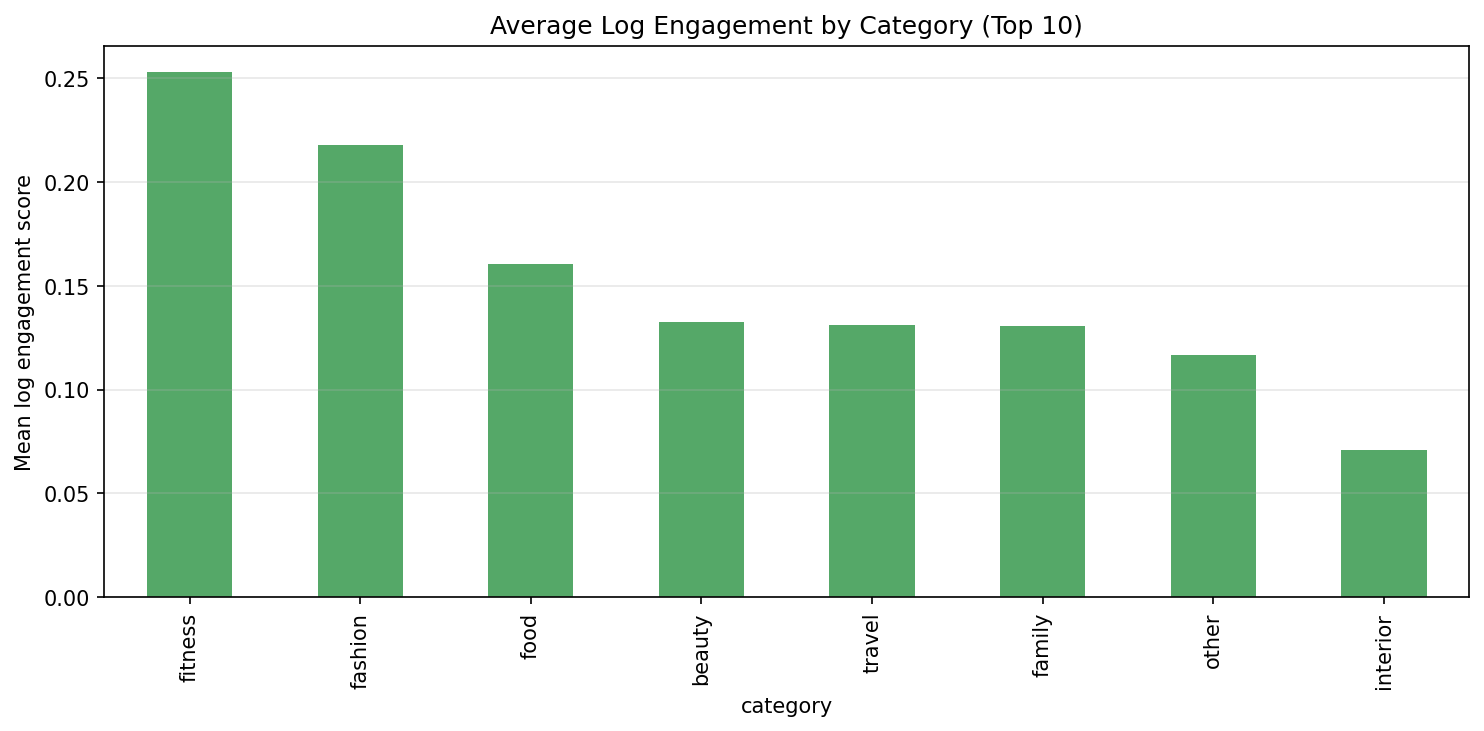
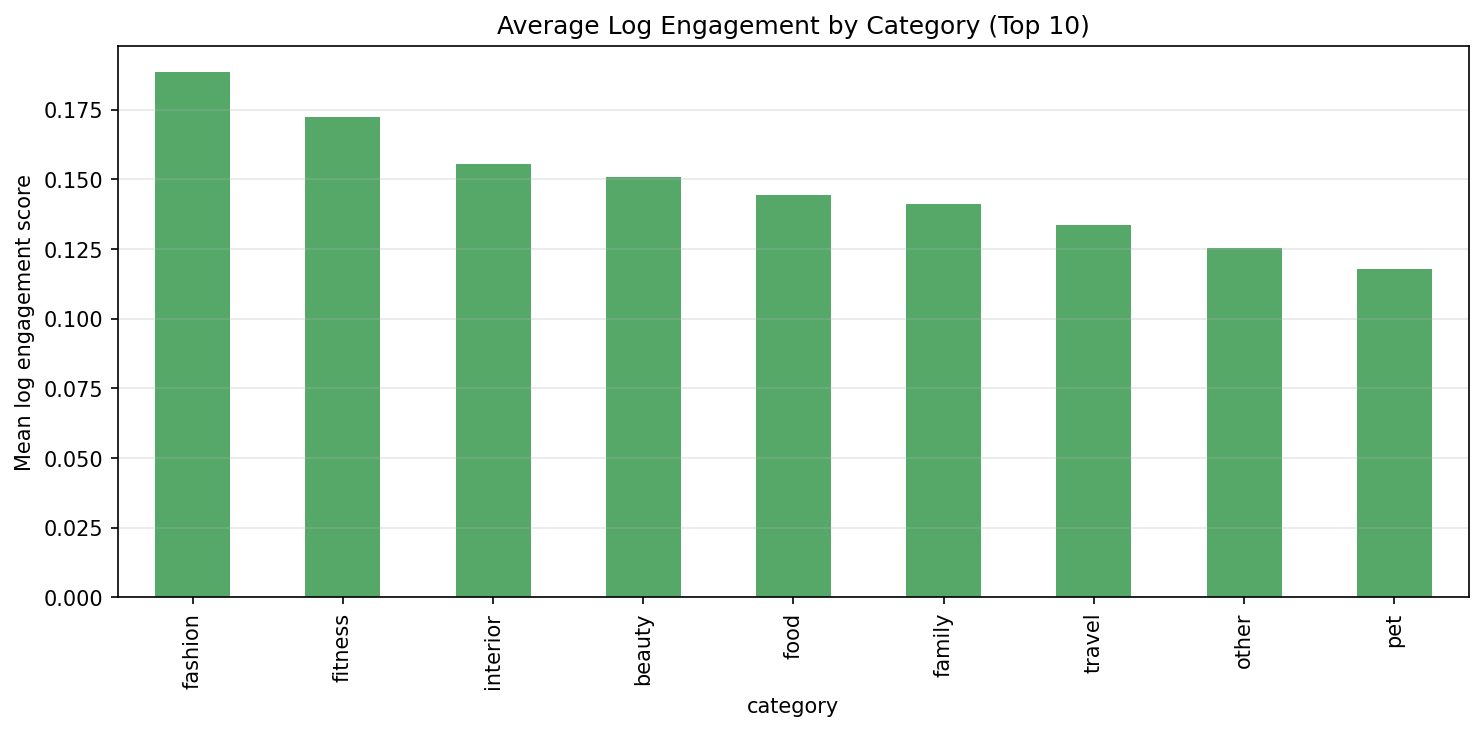
going from 10,000 influernecers to 20,000

diff --git a/src/demo_data.py b/src/demo_data.py
@@ -38,11 +38,83 @@ def _pick_bucket(options: tuple[str, ...], rng: random.Random) -> str:
     return rng.choice(usable)
 
 
+def _make_synthetic_post_row(
+    influencer: pd.Series,
+    influencer_idx: int,
+    post_idx: int,
+    rng: random.Random,
+    np_rng: np.random.Generator,
+    base_timestamp: int,
+    preferred_time: str,
+    preferred_media: str,
+) -> dict:
+    time_bucket = preferred_time if rng.random() < 0.55 else _pick_bucket(TIME_BUCKETS, rng)
+    caption_bucket = _pick_bucket(CAPTION_BUCKETS, rng)
+    hashtag_bucket = _pick_bucket(HASHTAG_BUCKETS, rng)
+    media_bucket = preferred_media if rng.random() < 0.6 else _pick_bucket(MEDIA_BUCKETS, rng)
+    ad_bucket = "ad" if rng.random() < 0.12 else "not_ad"
+
+    strategy = (
+        f"{time_bucket} + {caption_bucket} + {hashtag_bucket} + "
+        f"{ad_bucket} + {media_bucket}"
+    )
+
+    caption = f"{rng.choice(CAPTION_TEMPLATES)} #{hashtag_bucket.replace('_', '')}"
+    if caption_bucket == "long_caption":
+        caption += " " + " ".join(rng.choice(CAPTION_TEMPLATES) for _ in range(3))
+    elif caption_bucket == "medium_caption":
+        caption += " " + rng.choice(CAPTION_TEMPLATES)
+
+    num_hashtags = {"no_hashtags": 0, "few_hashtags": rng.randint(1, 3), "many_hashtags": rng.randint(4, 8)}[
+        hashtag_bucket
+    ]
+
+    influencer_name = influencer["influencer_name"]
+    followers = float(influencer["followers"])
+    quality = 0.8 if ad_bucket == "not_ad" else 0.55
+    if media_bucket == "video":
+        quality += 0.05
+    noise = float(np_rng.uniform(0.6, 1.4))
+
+    raw_engagement = max(1.0, followers * 0.0004 * quality * noise)
+    likes = int(raw_engagement * rng.uniform(0.65, 0.9))
+    comments = max(0, int(raw_engagement * rng.uniform(0.05, 0.2)))
+
+    return {
+        "influencer_name": influencer_name,
+        "json_postmetadata_file_name": f"synthetic_{influencer_idx}_{post_idx}.info",
+        "extracted_file_name": f"{influencer_name}-synthetic_{post_idx}.info",
+        "post_id": f"synthetic_{influencer_idx}_{post_idx}",
+        "shortcode": f"syn{influencer_idx}{post_idx}",
+        "likes": likes,
+        "comments": comments,
+        "preview_comments": comments,
+        "caption": caption,
+        "caption_length": len(caption),
+        "hashtags": [f"tag{i}" for i in range(num_hashtags)],
+        "hashtags_text": " ".join(f"tag{i}" for i in range(num_hashtags)),
+        "num_hashtags": num_hashtags,
+        "timestamp": base_timestamp + influencer_idx * 10_000 + post_idx * 86_400,
+        "is_ad": ad_bucket == "ad",
+        "sponsor_count": 1 if ad_bucket == "ad" else 0,
+        "is_video": media_bucket == "video",
+        "post_type": "GraphVideo" if media_bucket == "video" else "GraphImage",
+        "location_name": None,
+        "strategy": strategy,
+        "time_bucket": time_bucket,
+        "caption_bucket": caption_bucket,
+        "hashtag_bucket": hashtag_bucket,
+        "ad_bucket": ad_bucket,
+        "media_bucket": media_bucket,
+    }
+
+
 def generate_synthetic_posts(
     influencers_df: pd.DataFrame,
     num_influencers: int = 120,
     min_posts: int = 8,
     max_posts: int = 20,
+    target_posts: int | None = None,
     seed: int = 42,
 ) -> pd.DataFrame:
     """Build a realistic posts table from influencer profiles for local testing."""
@@ -50,79 +122,65 @@ def generate_synthetic_posts(
     np_rng = np.random.default_rng(seed)
 
     eligible = influencers_df[influencers_df["followers"] >= 1000].copy()
-    if len(eligible) > num_influencers:
+    if eligible.empty:
+        raise ValueError("No influencers with >= 1000 followers available for synthetic data.")
+
+    if target_posts is not None:
+        needed_influencers = min(len(eligible), max(num_influencers, target_posts // max_posts))
+        eligible = eligible.sample(n=needed_influencers, random_state=seed)
+    elif len(eligible) > num_influencers:
         eligible = eligible.sample(n=num_influencers, random_state=seed)
 
     base_timestamp = 1_700_000_000
     rows: list[dict] = []
+    influencer_states: dict[int, dict] = {}
 
     for influencer_idx, influencer in eligible.iterrows():
-        influencer_name = influencer["influencer_name"]
-        n_posts = rng.randint(min_posts, max_posts)
-        preferred_time = _pick_bucket(TIME_BUCKETS, rng)
-        preferred_media = _pick_bucket(MEDIA_BUCKETS, rng)
+        influencer_states[influencer_idx] = {
+            "influencer": influencer,
+            "post_count": 0,
+            "preferred_time": _pick_bucket(TIME_BUCKETS, rng),
+            "preferred_media": _pick_bucket(MEDIA_BUCKETS, rng),
+        }
 
-        for post_idx in range(n_posts):
-            time_bucket = preferred_time if rng.random() < 0.55 else _pick_bucket(TIME_BUCKETS, rng)
-            caption_bucket = _pick_bucket(CAPTION_BUCKETS, rng)
-            hashtag_bucket = _pick_bucket(HASHTAG_BUCKETS, rng)
-            media_bucket = preferred_media if rng.random() < 0.6 else _pick_bucket(MEDIA_BUCKETS, rng)
-            ad_bucket = "ad" if rng.random() < 0.12 else "not_ad"
-
-            strategy = (
-                f"{time_bucket} + {caption_bucket} + {hashtag_bucket} + "
-                f"{ad_bucket} + {media_bucket}"
-            )
-
-            caption = f"{rng.choice(CAPTION_TEMPLATES)} #{hashtag_bucket.replace('_', '')}"
-            if caption_bucket == "long_caption":
-                caption += " " + " ".join(rng.choice(CAPTION_TEMPLATES) for _ in range(3))
-            elif caption_bucket == "medium_caption":
-                caption += " " + rng.choice(CAPTION_TEMPLATES)
-
-            num_hashtags = {"no_hashtags": 0, "few_hashtags": rng.randint(1, 3), "many_hashtags": rng.randint(4, 8)}[
-                hashtag_bucket
-            ]
-
-            followers = float(influencer["followers"])
-            quality = 0.8 if ad_bucket == "not_ad" else 0.55
-            if media_bucket == "video":
-                quality += 0.05
-            noise = float(np_rng.uniform(0.6, 1.4))
-
-            raw_engagement = max(1.0, followers * 0.0004 * quality * noise)
-            likes = int(raw_engagement * rng.uniform(0.65, 0.9))
-            comments = max(0, int(raw_engagement * rng.uniform(0.05, 0.2)))
-
+    if target_posts is not None:
+        influencer_order = list(influencer_states.keys())
+        cursor = 0
+        while len(rows) < target_posts:
+            influencer_idx = influencer_order[cursor % len(influencer_order)]
+            state = influencer_states[influencer_idx]
+            post_idx = state["post_count"]
             rows.append(
-                {
-                    "influencer_name": influencer_name,
-                    "json_postmetadata_file_name": f"synthetic_{influencer_idx}_{post_idx}.info",
-                    "extracted_file_name": f"{influencer_name}-synthetic_{post_idx}.info",
-                    "post_id": f"synthetic_{influencer_idx}_{post_idx}",
-                    "shortcode": f"syn{influencer_idx}{post_idx}",
-                    "likes": likes,
-                    "comments": comments,
-                    "preview_comments": comments,
-                    "caption": caption,
-                    "caption_length": len(caption),
-                    "hashtags": [f"tag{i}" for i in range(num_hashtags)],
-                    "hashtags_text": " ".join(f"tag{i}" for i in range(num_hashtags)),
-                    "num_hashtags": num_hashtags,
-                    "timestamp": base_timestamp + influencer_idx * 10_000 + post_idx * 86_400,
-                    "is_ad": ad_bucket == "ad",
-                    "sponsor_count": 1 if ad_bucket == "ad" else 0,
-                    "is_video": media_bucket == "video",
-                    "post_type": "GraphVideo" if media_bucket == "video" else "GraphImage",
-                    "location_name": None,
-                    "strategy": strategy,
-                    "time_bucket": time_bucket,
-                    "caption_bucket": caption_bucket,
-                    "hashtag_bucket": hashtag_bucket,
-                    "ad_bucket": ad_bucket,
-                    "media_bucket": media_bucket,
-                }
+                _make_synthetic_post_row(
+                    state["influencer"],
+                    influencer_idx,
+                    post_idx,
+                    rng,
+                    np_rng,
+                    base_timestamp,
+                    state["preferred_time"],
+                    state["preferred_media"],
+                )
             )
+            state["post_count"] += 1
+            cursor += 1
+    else:
+        for influencer_idx, state in influencer_states.items():
+            influencer = state["influencer"]
+            n_posts = rng.randint(min_posts, max_posts)
+            for post_idx in range(n_posts):
+                rows.append(
+                    _make_synthetic_post_row(
+                        influencer,
+                        influencer_idx,
+                        post_idx,
+                        rng,
+                        np_rng,
+                        base_timestamp,
+                        state["preferred_time"],
+                        state["preferred_media"],
+                    )
+                )
 
     posts_df = pd.DataFrame(rows)
     posts_df["datetime"] = pd.to_datetime(posts_df["timestamp"], unit="s", errors="coerce")
@@ -135,12 +193,14 @@ def generate_synthetic_posts(
 def build_synthetic_posts_base(
     influencers_path: str | Path,
     num_influencers: int = 120,
+    target_posts: int | None = None,
     seed: int = 42,
 ) -> pd.DataFrame:
     influencers_df = load_influencers_df(influencers_path)
     posts_df = generate_synthetic_posts(
         influencers_df,
         num_influencers=num_influencers,
+        target_posts=target_posts,
         seed=seed,
     )
     return add_engagement_features(posts_df, influencers_df)
@@ -151,17 +211,25 @@ def build_posts_base_from_parquet_or_synthetic(
     posts_parquet: str | Path | None = None,
     synthetic: bool = False,
     num_influencers: int = 120,
+    target_posts: int | None = None,
     seed: int = 42,
 ) -> pd.DataFrame:
     influencers_df = load_influencers_df(influencers_path)
 
     if posts_parquet:
         posts_df = pd.read_parquet(posts_parquet)
+        if "log_engagement_score" in posts_df.columns and "followers" in posts_df.columns:
+            return posts_df
         if "strategy" not in posts_df.columns:
             posts_df = add_strategy_features(posts_df)
         return add_engagement_features(posts_df, influencers_df)
 
     if synthetic:
-        return build_synthetic_posts_base(influencers_path, num_influencers=num_influencers, seed=seed)
+        return build_synthetic_posts_base(
+            influencers_path,
+            num_influencers=num_influencers,
+            target_posts=target_posts,
+            seed=seed,
+        )
 
     raise ValueError("Provide --posts-parquet, --extracted-metadata-dir, or --synthetic.")

diff --git a/src/preprocess.py b/src/preprocess.py
@@ -138,22 +138,26 @@ def parse_metadata_file_light(path: str | Path) -> dict[str, Any] | None:
     }
 
 
-def list_metadata_files(metadata_dir: str | Path) -> list[Path]:
+def list_metadata_files(metadata_dir: str | Path, max_files: int | None = None) -> list[Path]:
     metadata_dir = Path(metadata_dir)
-    return sorted(
+    files = sorted(
         path
         for path in metadata_dir.rglob("*")
         if path.is_file() and path.suffix.lower() in {".info", ".json"}
     )
+    if max_files is not None:
+        return files[:max_files]
+    return files
 
 
 def parse_metadata_directory(
     metadata_dir: str | Path,
     batch_size: int = 1000,
     output_dir: str | Path | None = None,
+    max_files: int | None = None,
 ) -> pd.DataFrame:
-    """Parse all metadata files in a directory, optionally writing batch parquets."""
-    metadata_files = list_metadata_files(metadata_dir)
+    """Parse metadata files in a directory, optionally writing batch parquets."""
+    metadata_files = list_metadata_files(metadata_dir, max_files=max_files)
     if not metadata_files:
         raise FileNotFoundError(f"No metadata files found under {metadata_dir}")
 
@@ -253,7 +257,15 @@ def add_strategy_features(posts_df: pd.DataFrame) -> pd.DataFrame:
 
 def add_engagement_features(posts_df: pd.DataFrame, influencers_df: pd.DataFrame) -> pd.DataFrame:
     """Merge influencer profiles and compute engagement scores."""
-    df = posts_df.merge(influencers_df, on="influencer_name", how="left")
+    profile_cols = [
+        column
+        for column in ["influencer_name", "category", "followers", "followees", "total_posts"]
+        if column in influencers_df.columns
+    ]
+    if "followers" in posts_df.columns and "category" in posts_df.columns:
+        df = posts_df.copy()
+    else:
+        df = posts_df.merge(influencers_df[profile_cols], on="influencer_name", how="left")
 
     df["likes"] = pd.to_numeric(df["likes"], errors="coerce").fillna(0)
     df["comments"] = pd.to_numeric(df["comments"], errors="coerce").fillna(0)

diff --git a/src/pipeline.py b/src/pipeline.py
@@ -19,7 +19,7 @@ from src.preprocess import build_posts_base, load_influencers_df, parse_metadata
 class PipelineConfig:
     data_dir: Path
     output_dir: Path
-    sample_size: int = 10_000
+    target_posts: int = 20_000
     k: int = 5
     seed: int = 42
     posts_parquet: Path | None = None
@@ -52,6 +52,7 @@ def load_posts_base(config: PipelineConfig) -> pd.DataFrame:
         posts_df = parse_metadata_directory(
             config.extracted_metadata_dir,
             output_dir=config.output_dir / "processed" / "parts",
+            max_files=config.target_posts,
         )
         return build_posts_base(posts_df, influencers_df)
 
@@ -60,6 +61,7 @@ def load_posts_base(config: PipelineConfig) -> pd.DataFrame:
             influencers_path,
             synthetic=True,
             num_influencers=config.synthetic_influencers,
+            target_posts=config.target_posts,
             seed=config.seed,
         )
 
@@ -153,6 +155,7 @@ def run_pipeline(config: PipelineConfig) -> dict:
                 f"test_posts={len(test_df)}",
                 f"unique_influencers={posts_base_df['influencer_name'].nunique()}",
                 f"unique_strategies={posts_base_df['strategy'].nunique()}",
+                f"target_posts={config.target_posts}",
                 f"k={config.k}",
                 f"hybrid_alpha={hybrid_alpha}",
             ]

diff --git a/scripts/run_pipeline.py b/scripts/run_pipeline.py
@@ -50,7 +50,13 @@ def parse_args() -> argparse.Namespace:
         "--synthetic-influencers",
         type=int,
         default=120,
-        help="Number of influencers to simulate when --synthetic is set.",
+        help="Minimum influencer pool size when --synthetic is set.",
+    )
+    parser.add_argument(
+        "--target-posts",
+        type=int,
+        default=20_000,
+        help="Target number of posts for synthetic generation or metadata parsing cap.",
     )
     parser.add_argument(
         "--k",
@@ -77,6 +83,7 @@ def main() -> None:
     config = PipelineConfig(
         data_dir=args.data_dir,
         output_dir=args.output_dir,
+        target_posts=args.target_posts,
         posts_parquet=args.posts_parquet,
         extracted_metadata_dir=args.extracted_metadata_dir,
         synthetic=args.synthetic,
